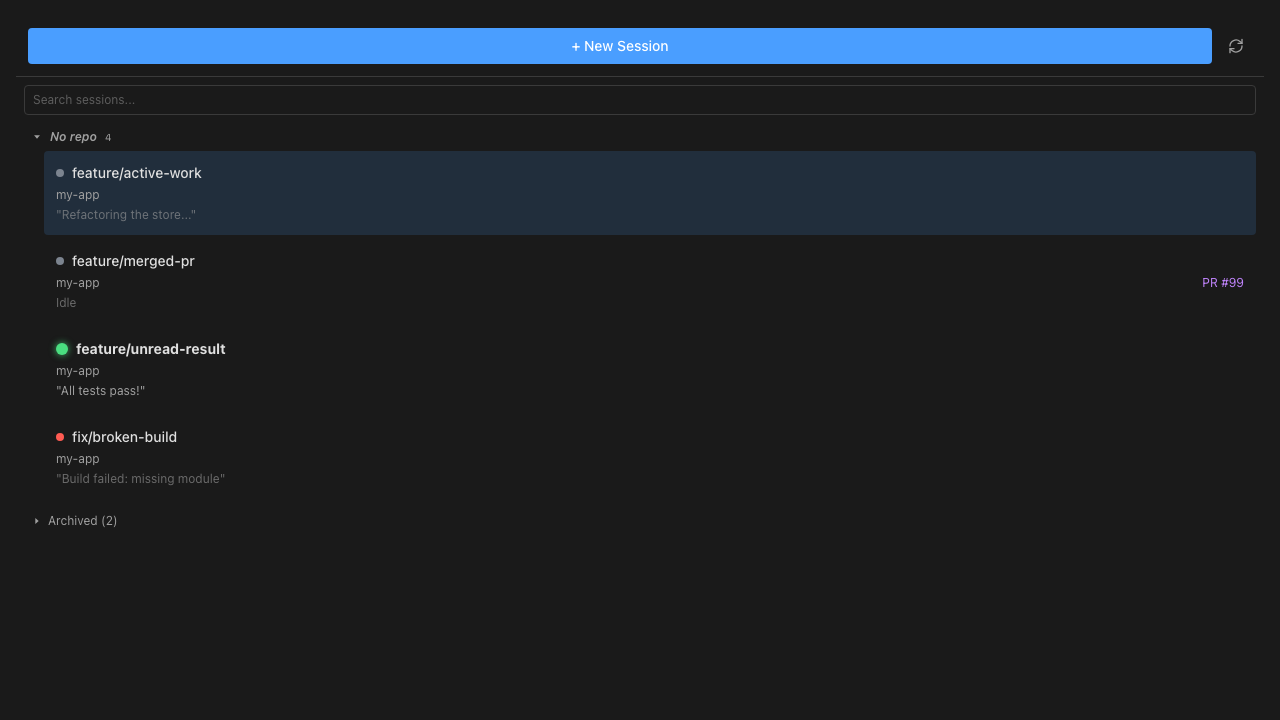
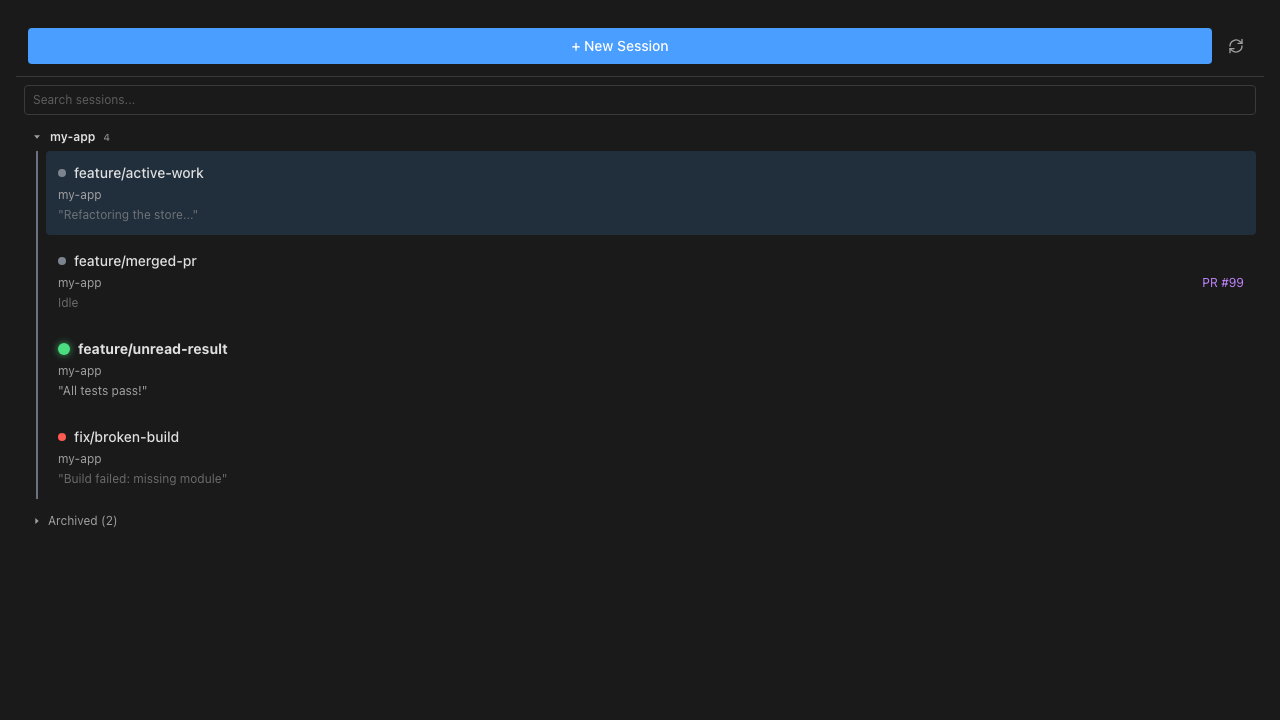
fix(sidebar): cluster repoId-less sessions with their repo, not "No repo"
Sessions created before `repoId` existed carry only a directory — in practice
the per-repo "main" worktree — so they all fell into a single "No repo" group
instead of clustering under the repo they plainly belong to.

Add resolveRepoId, which falls back to the repo rootDir prefix when repoId is
absent, reusing the rule already used in NewBranchView. Longest matching rootDir
wins so a repo nested inside another resolves to the inner one, and the
separator guard keeps '/broomy-other' from matching rootDir '/broomy'.

A session whose repoId IS set but no longer resolves keeps reading "Unknown
repository" rather than being silently re-homed by its path — that's a deleted
repo, not a repo-less session.

Applied to the three places that must agree: the group key (so keyboard
group-expansion targets the same group the sidebar renders), the group's own
repoId (so the rail colours these groups instead of greying them out), and the
search-mode repo tag.

Storybook: the SessionList fixtures have no repoId and a directory equal to the
repo rootDir, so those two stories now correctly read "my-app" with a rail
rather than "No repo" — refs updated.

Claude-Session: https://claude.ai/code/session_012yPigBKhHeUtvsk1Z6p7H4

diff --git a/src/renderer/panels/sidebar/repoGroups.ts b/src/renderer/panels/sidebar/repoGroups.ts
@@ -44,9 +44,47 @@ export interface Rollup {
   total: number
 }
 
-/** Stable group key — depends only on whether a repoId exists, not on whether it resolves. */
-export function groupKeyForSession(session: Pick<Session, 'repoId'>): string {
-  return session.repoId ? `repo:${session.repoId}` : UNGROUPED_KEY
+/**
+ * The repo a session belongs to.
+ *
+ * An explicit `repoId` always wins. Sessions created before `repoId` existed don't carry one —
+ * in practice the per-repo "main" worktree — so fall back to the directory layout every repo
+ * uses (`<rootDir>/main` for main, `<rootDir>/<branch>` for worktrees), the same
+ * `startsWith(rootDir + '/')` rule already used in NewBranchView. Longest matching rootDir wins,
+ * so a repo checked out inside another repo's root resolves to the inner one.
+ *
+ * A session whose `repoId` IS set but no longer resolves keeps that id: that's a deleted repo
+ * ("Unknown repository"), and it must not be silently re-homed by its path.
+ */
+export function resolveRepoId(
+  session: Pick<Session, 'repoId' | 'directory'>,
+  repos: ManagedRepo[],
+): string | undefined {
+  if (session.repoId) return session.repoId
+  const dir = session.directory
+  if (!dir) return undefined
+  let bestId: string | undefined
+  let bestLen = -1
+  for (const repo of repos) {
+    // `|| ''` also covers a persisted repo that predates rootDir, which the type doesn't admit.
+    const root = (repo.rootDir || '').replace(/\/+$/, '')
+    if (!root) continue
+    if (dir !== root && !dir.startsWith(`${root}/`)) continue
+    if (root.length > bestLen) {
+      bestLen = root.length
+      bestId = repo.id
+    }
+  }
+  return bestId
+}
+
+/** Stable group key — depends only on whether a repo resolves, not on whether it still exists. */
+export function groupKeyForSession(
+  session: Pick<Session, 'repoId' | 'directory'>,
+  repos: ManagedRepo[],
+): string {
+  const repoId = resolveRepoId(session, repos)
+  return repoId ? `repo:${repoId}` : UNGROUPED_KEY
 }
 
 function rankForKind(kind: RepoGroupKind): number {
@@ -63,16 +101,17 @@ export function groupSessionsByRepo(sessions: Session[], repos: ManagedRepo[]): 
 
   for (const session of sessions) {
     if (session.isArchived) continue
-    const key = groupKeyForSession(session)
+    const repoId = resolveRepoId(session, repos)
+    const key = repoId ? `repo:${repoId}` : UNGROUPED_KEY
     let group = groups.get(key)
     if (!group) {
       let kind: RepoGroupKind
       let label: string
-      if (!session.repoId) {
+      if (!repoId) {
         kind = 'ungrouped'
         label = 'No repo'
       } else {
-        const repo = repoById.get(session.repoId)
+        const repo = repoById.get(repoId)
         if (repo) {
           kind = 'repo'
           label = repo.name
@@ -81,7 +120,7 @@ export function groupSessionsByRepo(sessions: Session[], repos: ManagedRepo[]): 
           label = 'Unknown repository'
         }
       }
-      group = { key, label, kind, repoId: session.repoId, sessions: [] }
+      group = { key, label, kind, repoId, sessions: [] }
       groups.set(key, group)
     }
     group.sessions.push(session)

diff --git a/src/renderer/panels/sidebar/repoGroups.test.ts b/src/renderer/panels/sidebar/repoGroups.test.ts
@@ -2,6 +2,7 @@ import { describe, it, expect } from 'vitest'
 import {
   groupSessionsByRepo,
   groupKeyForSession,
+  resolveRepoId,
   rollUpStatus,
   flattenGroupOrder,
 } from './repoGroups'
@@ -28,8 +29,55 @@ function repo(id: string, name: string): ManagedRepo {
 
 describe('groupKeyForSession', () => {
   it('is stable for a defined repoId regardless of resolution', () => {
-    expect(groupKeyForSession({ repoId: 'r1' })).toBe('repo:r1')
-    expect(groupKeyForSession({ repoId: undefined })).toBe('ungrouped')
+    expect(groupKeyForSession({ repoId: 'r1', directory: '' }, [])).toBe('repo:r1')
+    expect(groupKeyForSession({ repoId: undefined, directory: '' }, [])).toBe('ungrouped')
+  })
+
+  it('agrees with the grouped view for a repoId-less session resolved by directory', () => {
+    const repos = [repo('r-b', 'broomy')]
+    const s = { repoId: undefined, directory: '/broomy/main' }
+    expect(groupKeyForSession(s, repos)).toBe('repo:r-b')
+  })
+})
+
+describe('resolveRepoId', () => {
+  const repos = [repo('r-b', 'broomy'), repo('r-a', 'acme-web')]
+
+  it('prefers an explicit repoId over the directory', () => {
+    expect(resolveRepoId({ repoId: 'r-a', directory: '/broomy/main' }, repos)).toBe('r-a')
+  })
+
+  it('keeps an unresolvable repoId instead of re-homing by path (deleted repo stays unknown)', () => {
+    expect(resolveRepoId({ repoId: 'gone', directory: '/broomy/main' }, repos)).toBe('gone')
+  })
+
+  it('falls back to the repo rootDir for a legacy "main" session with no repoId', () => {
+    expect(resolveRepoId({ repoId: undefined, directory: '/broomy/main' }, repos)).toBe('r-b')
+  })
+
+  it('matches a worktree directory and the rootDir itself', () => {
+    expect(resolveRepoId({ repoId: undefined, directory: '/broomy/feat/x' }, repos)).toBe('r-b')
+    expect(resolveRepoId({ repoId: undefined, directory: '/broomy' }, repos)).toBe('r-b')
+  })
+
+  it('does not match a sibling repo that merely shares a name prefix', () => {
+    // '/broomy-other' must NOT match rootDir '/broomy' — the separator guard.
+    expect(resolveRepoId({ repoId: undefined, directory: '/broomy-other/main' }, repos)).toBeUndefined()
+  })
+
+  it('picks the LONGEST matching rootDir when one repo nests inside another', () => {
+    const nested = [repo('outer', 'outer'), { ...repo('inner', 'inner'), rootDir: '/outer/inner' }]
+    expect(resolveRepoId({ repoId: undefined, directory: '/outer/inner/main' }, nested)).toBe('inner')
+  })
+
+  it('tolerates a trailing slash on rootDir', () => {
+    const trailing = [{ ...repo('r-b', 'broomy'), rootDir: '/broomy/' }]
+    expect(resolveRepoId({ repoId: undefined, directory: '/broomy/main' }, trailing)).toBe('r-b')
+  })
+
+  it('returns undefined for a session with no repoId and no matching root', () => {
+    expect(resolveRepoId({ repoId: undefined, directory: '/elsewhere/main' }, repos)).toBeUndefined()
+    expect(resolveRepoId({ repoId: undefined, directory: '' }, repos)).toBeUndefined()
   })
 })
 

diff --git a/src/renderer/shared/hooks/useSessionKeyboardCallbacks.ts b/src/renderer/shared/hooks/useSessionKeyboardCallbacks.ts
@@ -4,12 +4,15 @@
 import { useCallback } from 'react'
 import { PANEL_IDS } from '../../panels'
 import type { Session } from '../../store/sessions'
+import type { ManagedRepo } from '../../../preload/index'
 import { groupKeyForSession } from '../../panels/sidebar/repoGroups'
 
 const AGENT_TAB_ID = '__agent__'
 
 interface SessionKeyboardCallbacksDeps {
   sessions: Session[]
+  /** Needed to derive a session's group key the same way the sidebar does. */
+  repos?: ManagedRepo[]
   /** The visible grouped/sorted/filtered session-id order (excludes collapsed groups). */
   visibleOrder?: string[]
   /** Every active session in display order (for directional Next/Prev scanning). */
@@ -28,6 +31,7 @@ interface SessionKeyboardCallbacksDeps {
 
 export function useSessionKeyboardCallbacks({
   sessions,
+  repos = [],
   visibleOrder = [],
   fullOrder = [],
   setRepoGroupCollapsed,
@@ -77,7 +81,7 @@ export function useSessionKeyboardCallbacks({
     // If the active session sits in a collapsed group, expand it so its card can be focused.
     const active = sessions.find((s) => s.id === activeSessionId)
     if (active && !active.isArchived && setRepoGroupCollapsed) {
-      setRepoGroupCollapsed(groupKeyForSession(active), false)
+      setRepoGroupCollapsed(groupKeyForSession(active, repos), false)
     }
     requestAnimationFrame(() => {
       const activeCard = document.querySelector<HTMLElement>(`[data-panel-id="${PANEL_IDS.SIDEBAR}"] [tabindex="0"].bg-accent\\/15`)
@@ -88,7 +92,7 @@ export function useSessionKeyboardCallbacks({
         firstCard?.focus()
       }
     })
-  }, [globalPanelVisibility, toggleGlobalPanel, sessions, activeSessionId, setRepoGroupCollapsed])
+  }, [globalPanelVisibility, toggleGlobalPanel, sessions, repos, activeSessionId, setRepoGroupCollapsed])
 
   const handleFocusSessionSearch = useCallback(() => {
     if (!globalPanelVisibility[PANEL_IDS.SIDEBAR]) {

diff --git a/src/renderer/panels/sidebar/SessionList.grouping.test.tsx b/src/renderer/panels/sidebar/SessionList.grouping.test.tsx
@@ -87,6 +87,29 @@ describe('SessionList — repo grouping', () => {
     expect(screen.getByRole('button', { name: /Unknown repository/ })).toBeTruthy()
   })
 
+  it('clusters a legacy "main" session with its repo instead of "No repo"', () => {
+    // Sessions predating `repoId` (in practice the per-repo main worktree) carry only a
+    // directory under the repo's rootDir.
+    useSessionStore.setState({ sessions: [
+      makeSession({ id: '1', repoId: undefined, directory: '/b/main', branch: 'main' }),
+      makeSession({ id: '2', repoId: 'r-b', branch: 'feat/x' }),
+    ] })
+    render(<SessionList {...makeProps()} />)
+    const labels = headerButtons().map((h) => h.getAttribute('aria-label') ?? '')
+    expect(labels).toHaveLength(1)
+    expect(labels[0]).toContain('broomy')
+    expect(labels[0]).toContain('2 sessions')
+    expect(screen.queryByRole('button', { name: /No repo/ })).toBeNull()
+  })
+
+  it('still shows "No repo" when the directory matches no repo root', () => {
+    useSessionStore.setState({ sessions: [
+      makeSession({ id: '1', repoId: undefined, directory: '/somewhere/else', branch: 'main' }),
+    ] })
+    render(<SessionList {...makeProps()} />)
+    expect(screen.getByRole('button', { name: /No repo/ })).toBeTruthy()
+  })
+
   it('clears the published order when the sidebar unmounts', () => {
     useSessionStore.setState({ sessions: [makeSession({ id: '1', repoId: 'r-a', branch: 'a' })] })
     const { unmount } = render(<SessionList {...makeProps()} />)

diff --git a/src/renderer/panels/sidebar/useSessionGrouping.ts b/src/renderer/panels/sidebar/useSessionGrouping.ts
@@ -7,7 +7,7 @@ import { useSessionStore } from '../../store/sessions'
 import { useSettingsStore } from '../../store/settings'
 import type { Session } from '../../store/sessions'
 import type { ManagedRepo } from '../../../preload/index'
-import { groupSessionsByRepo, rollUpStatus } from './repoGroups'
+import { groupSessionsByRepo, resolveRepoId, rollUpStatus } from './repoGroups'
 import { railColorsForGroups } from './repoRail'
 
 export function useSessionGrouping(
@@ -25,9 +25,14 @@ export function useSessionGrouping(
   const collapsedSet = useMemo(() => new Set(collapsedRepoGroups), [collapsedRepoGroups])
 
   const repoById = useMemo(() => new Map(repos.map((r) => [r.id, r])), [repos])
+  // Resolved the same way as the grouped view, so a session tagged in search mode lands under
+  // the same repo name it clusters under when grouped.
   const repoLabelFor = useCallback(
-    (s: Session) => (!s.repoId ? 'No repo' : repoById.get(s.repoId)?.name ?? 'Unknown repository'),
-    [repoById],
+    (s: Session) => {
+      const repoId = resolveRepoId(s, repos)
+      return !repoId ? 'No repo' : repoById.get(repoId)?.name ?? 'Unknown repository'
+    },
+    [repoById, repos],
   )
 
   // Grouped view is built from ALL non-archived sessions; the search render uses the

diff --git a/src/renderer/App.tsx b/src/renderer/App.tsx
@@ -272,7 +272,7 @@ function AppContent() {
     handleFocusSessionSearch, handleArchiveSession, handleToggleSettings, handleShowShortcuts,
     handleNextTerminalTab, handlePrevTerminalTab,
   } = useSessionKeyboardCallbacks({
-    sessions, visibleOrder: sidebarVisibleOrder, fullOrder: sidebarFullOrder, setRepoGroupCollapsed,
+    sessions, repos, visibleOrder: sidebarVisibleOrder, fullOrder: sidebarFullOrder, setRepoGroupCollapsed,
     activeSessionId: activeSessionId ?? null, globalPanelVisibility,
     toggleGlobalPanel, archiveSession, unarchiveSession, handleSelectSession, setShowShortcutsModal,
     setActiveTerminalTab,
